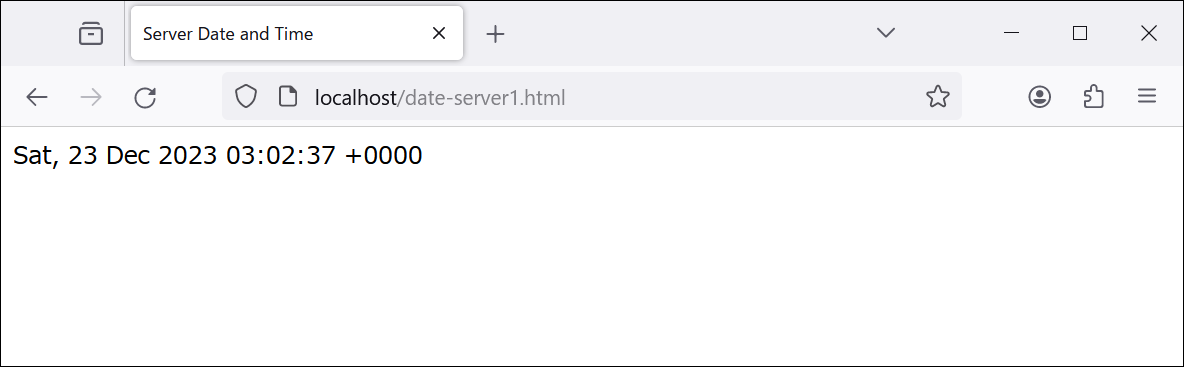
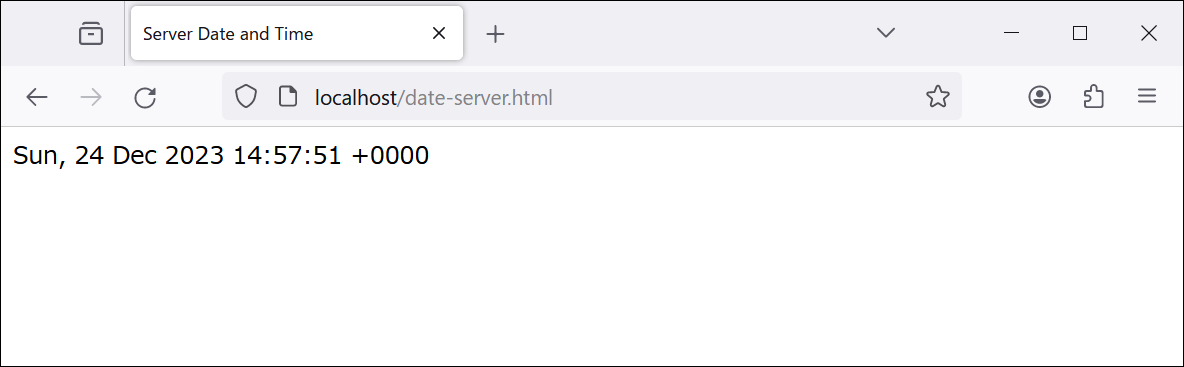
08

Changed region(s): [[0.0, 0.3896, 0.375, 0.4496], [0.25, 0.2398, 0.4688, 0.2997]]

diff --git a/07-09/app/html/form.html b/07-09/app/html/form.html
@@ -8,46 +8,47 @@
 <body>
 <form action="/submit" method="post">
   <dl>
-    <dt><label for="username">ユーザー名</label></dt>
-    <dd><input type="text" id="username" name="username" required></dd>
-    <dt><label for="password">パスワード</label></dt>
-    <dd><input type="password" id="password" name="password" required></dd>
+    <dt>ユーザ名</dt>
+    <dd><input type="text" name="username" required></dd>
+    <dt>パスワード</dt>
+    <dd><input type="password" name="password" required></dd>
 
     <dt>性別</dt>
     <dd>
-      <input type="radio" id="male" name="gender" value="male">
-      <label for="male">男性</label>
-      <input type="radio" id="female" name="gender" value="female">
-      <label for="female">女性</label>
+      <input type="radio" name="gender" value="male">
+      <label>男性</label>
+      <input type="radio" name="gender" value="female">
+      <label>女性</label>
     </dd>
     
     <dt>興味</dt>
     <dd>
-      <input type="checkbox" id="music" name="interest" value="music">
-      <label for="music">音楽</label>
-      <input type="checkbox" id="books" name="interest" value="books">
-      <label for="books">本</label>
+      <input type="checkbox" name="interest" value="music">
+      <label>音楽</label>
+      <input type="checkbox" name="interest" value="books">
+      <label>本</label>
     </dd>
     
-    <dt><label for="document">ドキュメント</label></dt>
-    <dd><input type="file" id="document" name="document"></dd>
+    <dt>ドキュメント</dt>
+    <dd><input type="file" name="document"></dd>
+    <dt>隠し要素</dt>
     <dd><input type="hidden" name="userid" value="12345"></dd>
     
-    <dt><label for="email">Eメール</label></dt>
-    <dd><input type="email" id="email" name="email"></dd>
+    <dt>Eメール</dt>
+    <dd><input type="email" name="email"></dd>
     
-    <dt><label for="quantity">数量</label></dt>
-    <dd><input type="number" id="quantity" name="quantity" min="1" max="100"></dd>
+    <dt>数量</dt>
+    <dd><input type="number" name="quantity" min="1" max="100"></dd>
     
-    <dt><label for="birthday">誕生日</label></dt>
-    <dd><input type="date" id="birthday" name="birthday"></dd>
+    <dt>誕生日</dt>
+    <dd><input type="date" name="birthday"></dd>
     
-    <dt><label for="volume">音量</label></dt>
-    <dd><input type="range" id="volume" name="volume" min="0" max="100"></dd>
+    <dt>音量</dt>
+    <dd><input type="range" name="volume" min="0" max="100"></dd>
     
-    <dt><label for="planet">星</label></dt>
+    <dt>星</dt>
     <dd>
-      <select id="planet" name="planet">
+      <select name="planet">
         <option value="earth">地球</option>
         <option value="moon">月</option>
         <option value="mars">火星</option>

diff --git a/07-09/app/html/date-server.html b/07-09/app/html/date-server.html
@@ -2,20 +2,20 @@
 <html lang="ja">
   <head>
     <title>Server Date and Time</title>
-    <script>
-      async function fetchData() {
-        const response = await fetch('http://localhost/date.php');
-        const data = await response.text();
-        document.getElementById('result').textContent = data;
-      }
-
-      window.onload = function() {
-        fetchData(); // 最初に一度データを取得
-        setInterval(fetchData, 1000); // 1秒ごとにデータを再取得
-      };
-    </script>
   </head>
   <body>
     <div id="result"></div>
+    <script>
+      var result = document.getElementById("result");
+
+      async function fetchData() {
+        const response = await fetch('http://localhost/date.php');
+        const data = await response.text();
+        result.textContent = data;
+      }
+
+      setInterval(fetchData, 1000); // 1秒ごとにfetchData関数を呼び出す
+      fetchData(); // 初回の呼び出し
+    </script>
   </body>
 </html>

diff --git a/07-09/app/html/date-client2.html b/07-09/app/html/date-client2.html
@@ -6,11 +6,11 @@
   <body>
     <div id="result"></div>
     <script>
-      var result = document.getElementById("result"); // 要素の取得
+      var result = document.getElementById("result");
 
       function updateDateTime() {
-        var currentDateTime = new Date(); // 現在の日時を取得
-        result.textContent = currentDateTime.toString(); // 内容の更新
+        var currentDateTime = new Date();
+        result.textContent = currentDateTime.toString();
       }
 
       setInterval(updateDateTime, 1000); // 1秒ごとにupdateDateTime関数を呼び出す

diff --git a/07-09/app/html/date-client1.html b/07-09/app/html/date-client1.html
@@ -6,8 +6,8 @@
 <body>
     <div id="result"></div>
     <script>
-        var currentDateTime = new Date(); // 現在の日時を取得
         var result = document.getElementById('result'); // 要素の取得
+        var currentDateTime = new Date(); // 現在の日時を取得
         result.textContent = currentDateTime.toString(); // 内容の更新
     </script>
 </body>

diff --git a/07-09/app/html/X-A.html b/07-09/app/html/X-A.html
@@ -1,0 +1,10 @@
+<!DOCTYPE html>
+<html lang="ja">
+<head>
+    <meta charset="UTF-8">
+    <title>X-A</title>
+</head>
+<body>
+X-A
+</body>
+</html>

diff --git a/07-09/08.md b/07-09/08.md
@@ -1,4 +1,4 @@
-[← 第7章 Webアプリケーション入門](07.md)　[第9章 Webアプリケーションのセキュリティ →](09.md)
+[← 第7章 Webアプリケーションの基礎](07.md)　[第9章 Webアプリケーションのセキュリティ →](09.md)
 
 # Webアプリケーションの構築
 
@@ -15,11 +15,7 @@
 * [クライアントサイドの技術（JavaScript）](#JavaScript)
 	* [JavaScriptによる時刻の表示](#JavaScript-1)
 	* [JavaScriptによる時刻の表示（自動更新）](#JavaScript-1)
-	* [JavaScriptの通信による時刻の取得](#JavaScript-1)
 	* [JavaScriptの通信による時刻の取得（自動更新）](#JavaScript-1)
-* [フレームワーク](#-1)
-	* [サーバーサイドのフレームワーク](#-1)
-	* [クライアントサイドのフレームワーク](#-1)
 
 <!-- vscode-markdown-toc-config
 	numbering=false
@@ -202,177 +198,15 @@ http://localhost/date-client2.html にアクセスすると，現在の日時が
 > [!NOTE]
 > 表示を更新するのにページの再読込は必要ない。ページ自体は再読込されず，内容だけが更新される。
 
-### <a name='JavaScript-1'></a>JavaScriptの通信による時刻の取得
-
-実装：[date-server1.html](app/html/date-server1.html)
-
-http://localhost/date-server1.html にアクセスすると，次のように現在の日時が表示される。
-
-![](img/08-date-server-b.png)
-
 ### <a name='JavaScript-1'></a>JavaScriptの通信による時刻の取得（自動更新）
 
-実装：[date-server2.html](app/html/date-server2.html)
+実装：[date-server.html](app/html/date-server.html)
 
-http://localhost/date-server2.html にアクセスすると，現在の日時が表示され，1秒ごとに更新される。
+http://localhost/date-server.html にアクセスすると，現在の日時が表示され，1秒ごとに更新される。
+
+![](img/08-date-server-b.png)
 
 > [!NOTE]
 > 表示を更新するのにページの再読込は必要ない。ページ自体は再読込されず，内容だけが更新される。
 
-## <a name='-1'></a>フレームワーク
-
-### <a name='-1'></a>サーバーサイドのフレームワーク
-
-**Ruby on Rails**を導入し，表のような商品情報を管理するウェブアプリを構築する。
-
-id|name|price|stock
---|--|--|--
-1|laptop computer|120000|2
-2|desktop computer|99800|0
-3|display|30350|100
-4|keyboard|2980|10
-
-まず，必要なフォフトウェアをインストールする。（参考：[Node.jsのInstallation Instructions](https://github.com/nodesource/distributions#ubuntu-versions)）
-
-```bash
-curl -fsSL https://deb.nodesource.com/gpgkey/nodesource-repo.gpg.key | gpg --dearmor -o /etc/apt/keyrings/nodesource.gpg
-export NODE_MAJOR=21
-echo "deb [signed-by=/etc/apt/keyrings/nodesource.gpg] https://deb.nodesource.com/node_$NODE_MAJOR.x nodistro main" | tee /etc/apt/sources.list.d/nodesource.list
-
-export DEBIAN_FRONTEND=noninteractive
-apt update && apt install -y libsqlite3-dev libyaml-dev nodejs ruby ruby-dev tzdata && gem install rails -v 7.1.1 && npm install -g yarn
-```
-
-Ruby on Railsのウェブアプリを作成する。
-
-```bash
-cd
-rails new rails-app
-
-cd rails-app
-rails generate scaffold Item name:string price:integer stock:integer
-rails db:migrate
-```
-
-表のデータを生成する。
-
-```bash
-cat << 'EOF' >> db/seeds.rb
-Item.create!(name: 'laptop computer', price: 120000, stock: 2)
-Item.create!(name: 'desktop computer', price: 99800, stock: 0)
-Item.create!(name: 'display', price: 30350, stock: 100)
-Item.create!(name: 'keyboard', price: 2980, stock: 10)
-EOF
-
-rails db:seed
-echo 'select * from items' | rails db
-```
-
-テスト用のウェブサーバを起動する。
-
-```bash
-rails server -b 0.0.0.0
-```
-
-http://localhost:3000/items にアクセスすると，次のようなページが表示される。
-
-![](img/08-rails1-b.png)
-
-CRUDが実装されていることを確認する（図は編集ページの例）。
-
-![](img/08-rails2-b.png)
-
-テスト用のウェブサーバをCtrl-Cで停止する。
-
-MVCの実装の詳細を，「cat ファイル名」で確認する。この段階で確認するとよいのは，次のファイルである。
-
-ファイル|内容|備考
---|--|--
-app/models/item.rb|商品（item）のモデル|モデルはアプリを作成したときの指示どおりのため，ファイルにはほとんど何も書かれない。
-app/views/items/index.html.erb|商品の一覧を表示するビュー|各商品の詳細ページへのリンクや，商品の新規登録のためのリンクを生成する。
-app/views/items/show.html.erb|商品の詳細を表示するビュー|商品の編集や削除のためのリンクを生成する。
-app/views/items/_form.html.erb|商品の編集フォームを表示するビュー|商品の新規登録フォームも，このファイルを利用する。
-app/controllers/items_controller.rb|商品のコントローラ|商品の一覧，詳細，編集，削除のためのメソッドを定義している。
-
-### <a name='-1'></a>クライアントサイドのフレームワーク
-
-**React**のウェブアプリを構築する。このウェブアプリは，カウンターとそれを増減させるボタンからなる。
-
-![](img/08-react-b.png)
-
-```bash
-cd
-CI=true npx create-react-app react-app
-cd react-app
-```
-
-カウンターとボタンは別々の**コンポーネント**とする。そうすることで，別々に開発でき，別々に再利用できるようになる。
-
-カウンターを実装する。
-
-```bash
-cat << 'EOF' > src/Counter.js
-import React from 'react';
-
-function Counter({ count }) {
-  return <p>Count: {count}</p>;
-}
-
-export default Counter;
-EOF
-```
-
-ボタンを実装する。
-
-```bash
-cat << 'EOF' > src/Button.js
-import React from 'react';
-
-function Button({ onClick, children }) {
-  return <button onClick={onClick}>{children}</button>;
-}
-
-export default Button;
-EOF
-```
-
-最後に，カウンターとボタンを組み合わせて，ウェブアプリとする。
-**データバインド**によって，ページ上のカウンターの値とプログラムの変数`count`の値は結びついている。ページ上の表示を変更するための**DOM**を操作するコードを書く必要はない。
-
-```bash
-cat << 'EOF' > src/App.js
-import React, { useState } from 'react';
-import Counter from './Counter';
-import Button from './Button';
-
-function App() {
-  const [count, setCount] = useState(0);
-
-  return (
-    <div className="App">
-      <header className="App-header">
-        <Counter count={count} />
-        <Button onClick={() => setCount(count + 1)}>Increment</Button>
-        <Button onClick={() => setCount(count - 1)}>Decrement</Button>
-      </header>
-    </div>
-  );
-}
-
-export default App;
-EOF
-```
-
-実験用のウェブサーバを起動する。
-
-```bash
-npm start
-```
-
-http://localhost:3000/ にアクセスすると，冒頭に掲載したようなページが表示される。
-
-ボタンをクリックすると，数値が増減することを確認する。
-
-テスト用のウェブサーバをCtrl-Cで停止する。
-
-[← 第7章 Webアプリケーション入門](07.md)　[第9章 Webアプリケーションのセキュリティ →](09.md)
+[← 第7章 Webアプリケーションの基礎](07.md)　[第9章 Webアプリケーションのセキュリティ →](09.md)

diff --git a/README.md b/README.md
@@ -1,6 +1,6 @@
 # 『Webのしくみと応用』サポートサイト（仮）
 
 - [第7, 8, 9章のための準備](/07-09)
-- [第7章 Webアプリケーション入門](/07-09/07.md)
+- [第7章 Webアプリケーションの基礎](/07-09/07.md)
 - [第8章 Webアプリケーションの構築](/07-09/08.md)
 - [第9章 Webアプリケーションのセキュリティ](/07-09/09.md)
